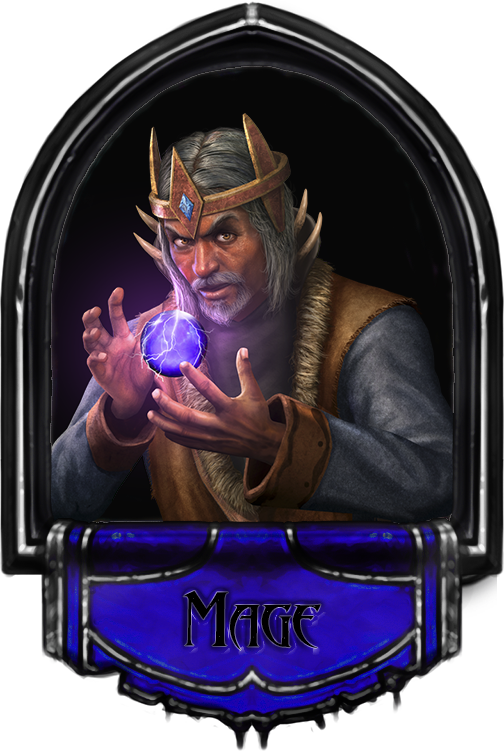
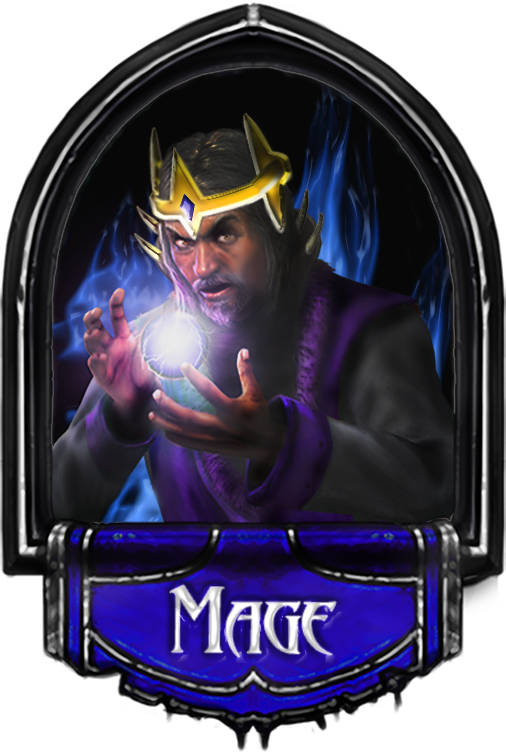
Millora en el disseny.

diff --git a/MW_clientSwift/Controllers/VCBattle.swift b/MW_clientSwift/Controllers/VCBattle.swift
@@ -48,7 +48,7 @@ class VCBattle: UIViewController {
      
         // Set the background image
         var mainScreenSize : CGSize = UIScreen.mainScreen().bounds.size // Getting main screen size of iPhone
-        var imageObbj:UIImage! = application.imageResize(UIImage(named: "login_background.png")!, sizeChange: CGSizeMake(mainScreenSize.width, mainScreenSize.height))
+        var imageObbj:UIImage! = application.imageResize(UIImage(named: "battle_display.jpg")!, sizeChange: CGSizeMake(mainScreenSize.width, mainScreenSize.height))
         self.view.backgroundColor = UIColor(patternImage:imageObbj!)
         
         
@@ -72,9 +72,9 @@ class VCBattle: UIViewController {
             
             opponentName.text = self.dataArray[4]
             if(self.dataArray[5].toInt() == MAGE){
-                opponentImageView.image = UIImage(named: "mage.png")
+                opponentImageView.image = UIImage(named: "pg_avatar_mage.png")
             }else{
-                opponentImageView.image = UIImage(named: "warlock.png")
+                opponentImageView.image = UIImage(named: "pg_avatar_warlock.png")
             }
             opponentOriginalLife = self.dataArray[6]
             opponentOriginalEnergy = self.dataArray[7]
